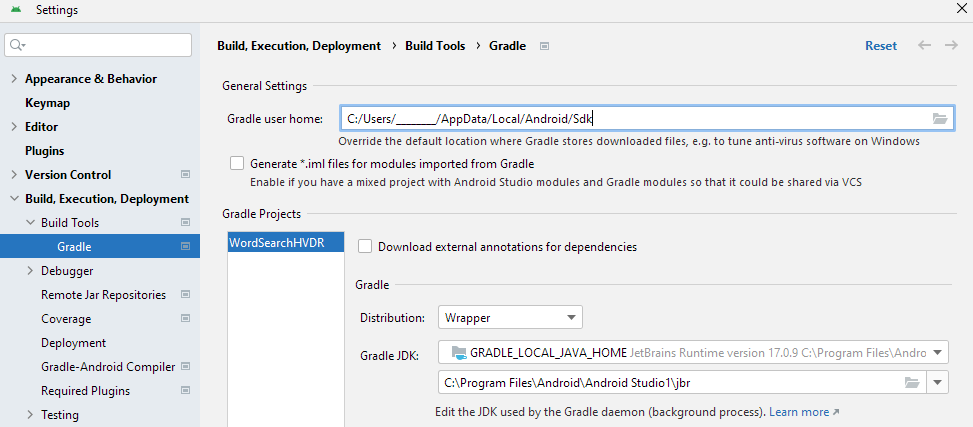
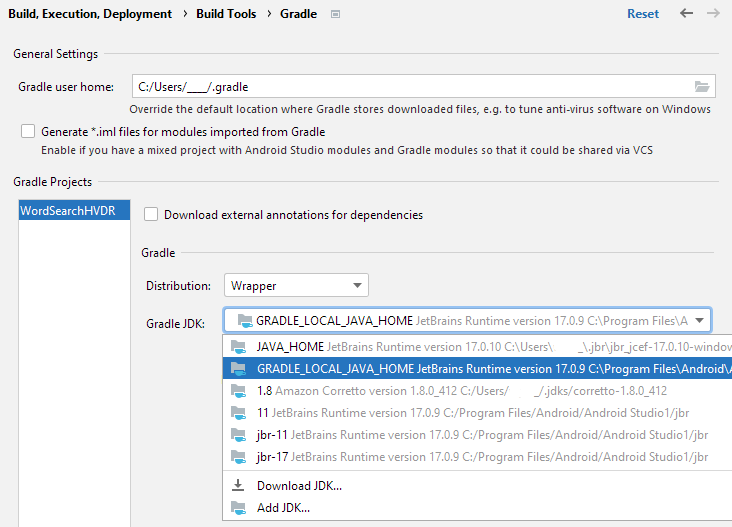
Updated README.md

diff --git a/README.md b/README.md
@@ -1,7 +1,9 @@
 # WordSearchHVDR
 
 
-__Purpose of Project:__ Many unsuccessful attempts looking for a complete word search puzzle for Android, written in Kotlin and that actually works :smile:. This project will fill that void. Hopefully this project will help.
+__Purpose of Project:__ 
+Many unsuccessful attempts looking for a complete word search puzzle for Android, written in Kotlin, compiles and actually runs :smile:.
+Hopefully this project will fill that void.
 
 __Category:__ Word Search Puzzle
 
@@ -15,14 +17,14 @@ __License:__ MIT License
 
 __Version:__ 1.0
 
-__Date:__ 4/16/2024
+__Date:__ 5/1/2024
 
 __Supported Language:__ U.S. English (only)
 
 
 ---
 
-### Index
+### Table of Contents
 
 * [App Features](#app-features)
 * [App Configuration Options](#app-configuration-options)
@@ -121,9 +123,17 @@ After cloning this project and opening it in Android Studio, you may receive the
 
 ![Gradle JDK Missing](./images/Gradle-JDK-Missing.png)
 
-To resolve this notification, select the link `Select the Gradle JDK location` or change the JDK in settings.
+or
 
-Replace the underscores with your user home directory. This path is dependent on your Android Studio and Gradle installation.
+![Gradle JDK Missing](./images/Gradle-Home.png)
+
+To resolve this notification, select the link `Select the Gradle JDK location`.
+
+Update the `Gradle user home` with your Gradle install directory (see screenshot below).
+This location should be within your home directory.
+Replace the underscores with your user name.
+
+> Note: This path is dependent on your Android Studio and Gradle installation.
 
 ![Gradle JDK Setting](./images/Gradle-JDK-Setting.png)
 
